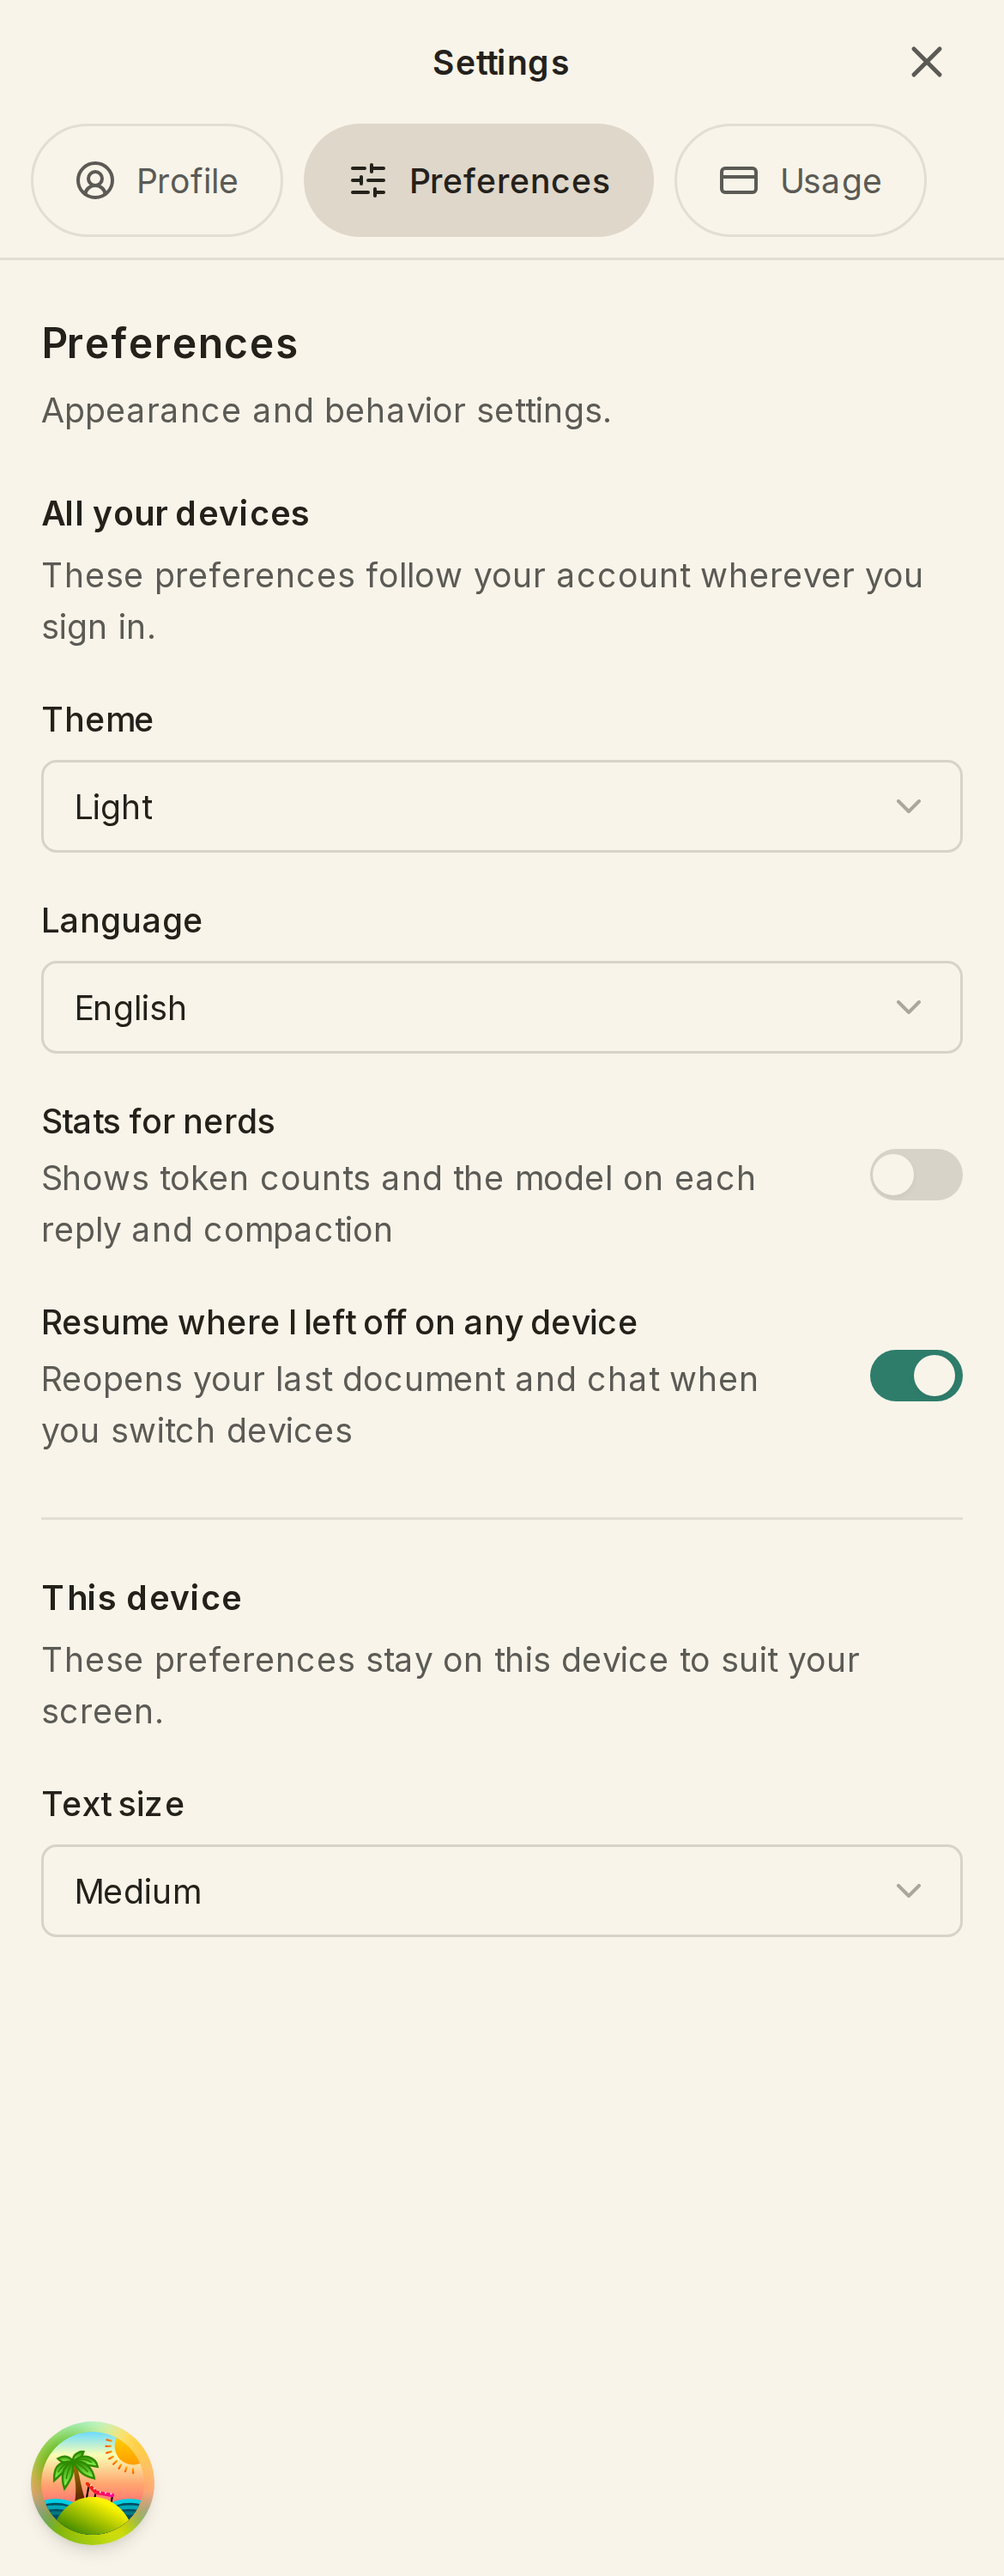
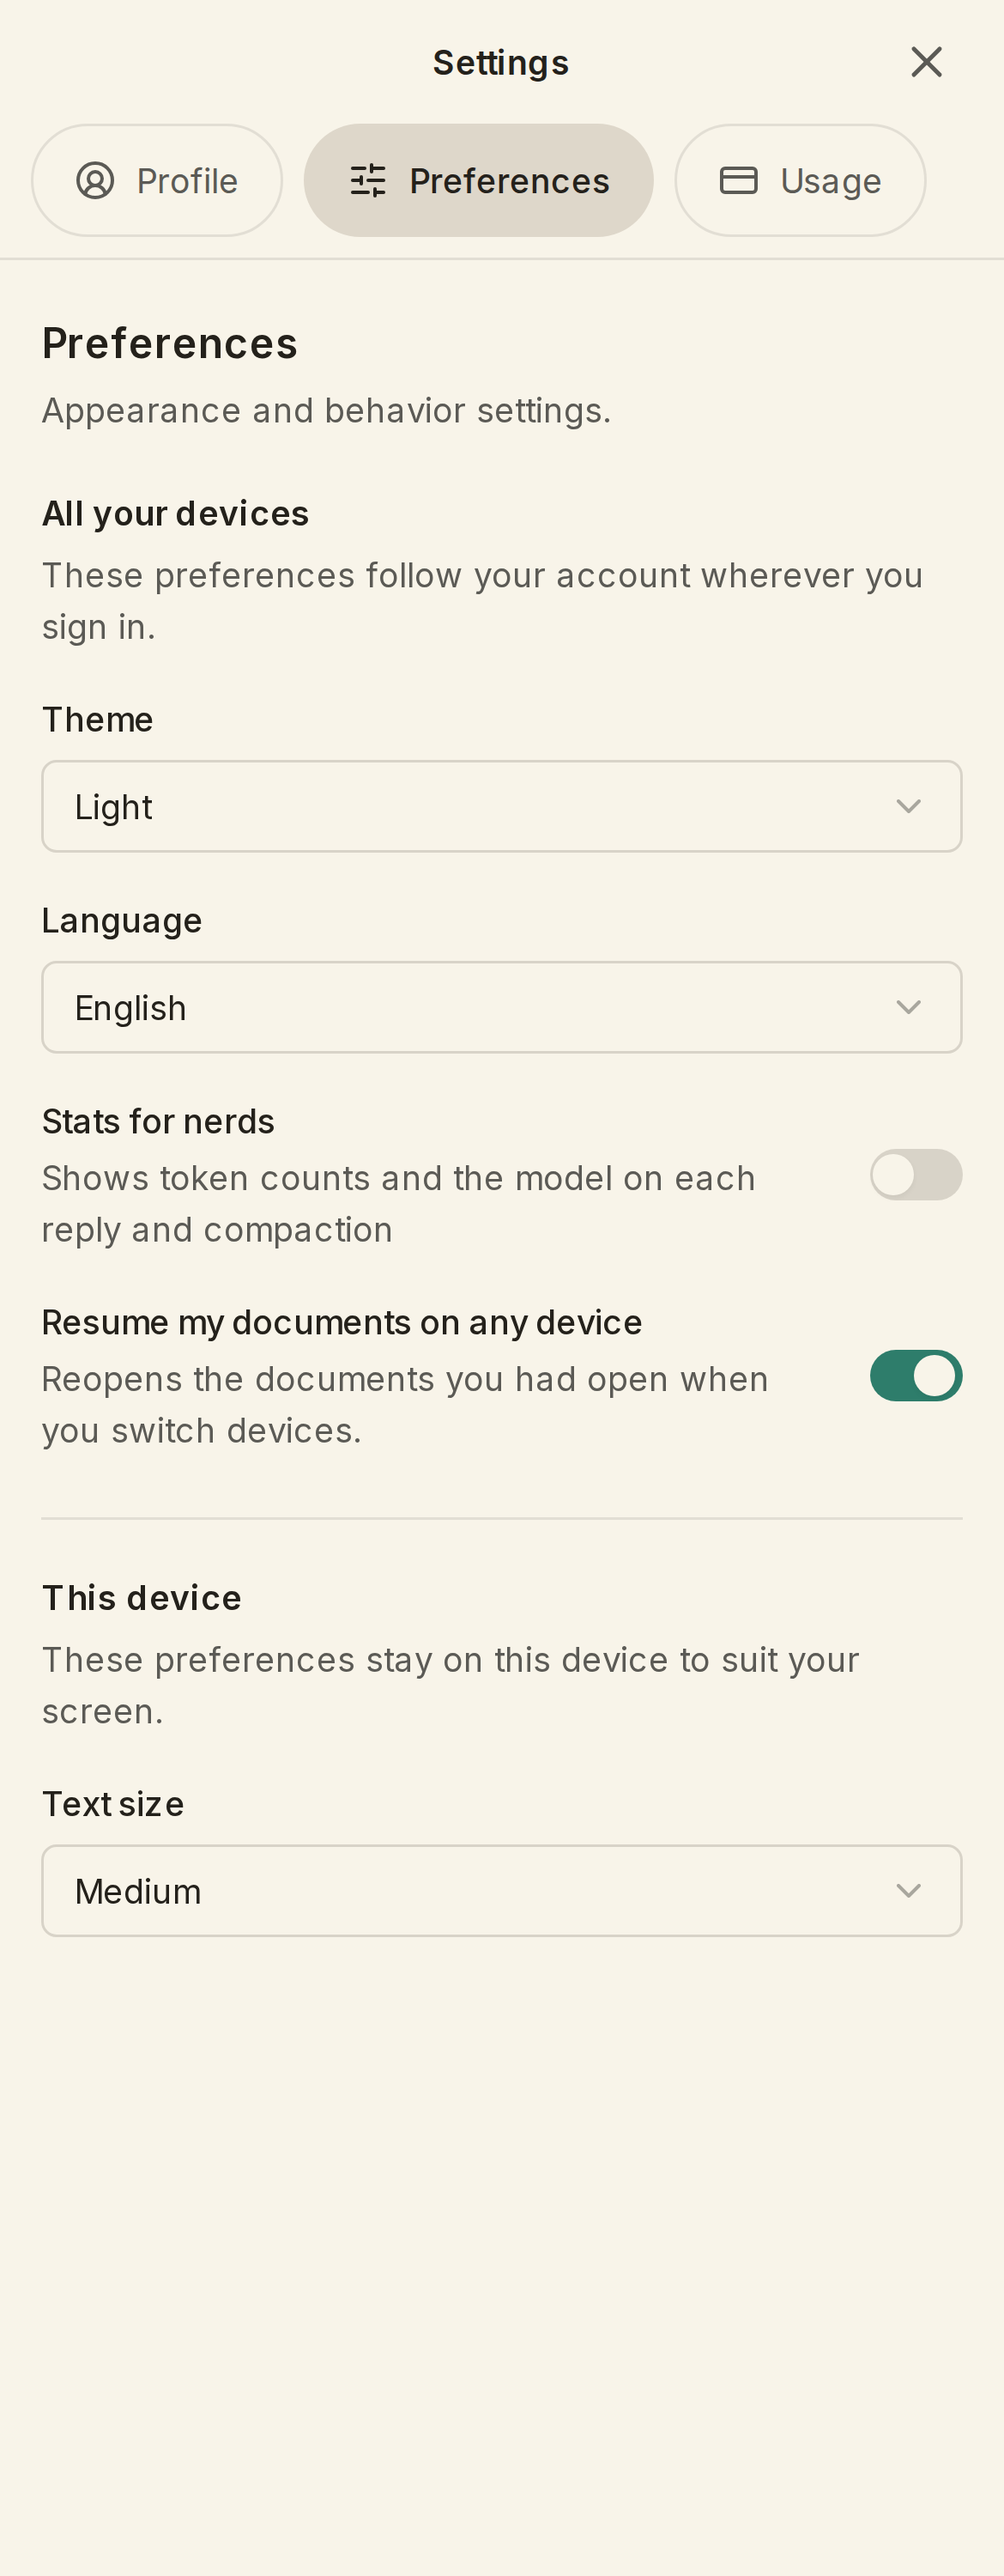
test: record reviewed settings controls and pin retirement guidance

Changed region(s): [[0.1846, 0.496, 0.6462, 0.558], [0.0308, 0.93, 0.1538, 0.992], [0.6769, 0.527, 0.7385, 0.558]]

diff --git a/apps/app/src/lib/account-settings-cache.ts b/apps/app/src/lib/account-settings-cache.ts
@@ -1,4 +1,4 @@
-/** Account-stamped first-paint cache. The server remains the preference authority. */
+/** Account-stamped confirmed-snapshot cache. The server remains the preference authority. */
 import { ACCOUNT_LANGUAGES, ACCOUNT_THEMES } from "@meridian/contracts/preferences";
 import type { AccountSettings } from "@meridian/contracts/protocol";
 export const ACCOUNT_SETTINGS_ACTIVE_KEY = "meridian:account-settings-active:v1";

diff --git a/apps/app/src/features/account/useAccountSettings.test.tsx b/apps/app/src/features/account/useAccountSettings.test.tsx
@@ -471,7 +471,7 @@ it("reconciles all unowned fields from a cross-tab server read", async () => {
     });
     await act(async () =>
       window.dispatchEvent(
-        new StorageEvent("storage", { key: ACCOUNT_SETTINGS_CACHE_PREFIX + "account-a" }),
+        new StorageEvent("storage", { key: `${ACCOUNT_SETTINGS_CACHE_PREFIX}account-a` }),
       ),
     );
     await flush();

diff --git a/apps/server/server/domains/preferences/.context/CONTEXT.md b/apps/server/server/domains/preferences/.context/CONTEXT.md
@@ -12,5 +12,7 @@ Owns account display preferences and the per-project runtime auto-resume policy.
   The runtime orchestrator consumes it. GET/PUT project preference routes have
   no current client reader; they remain available for this runtime policy.
   Thread grouping and pinned thread IDs are retired, not compatibility fields.
+  Migration 0036 transfers visible, project-owned pins to canonical Favorites
+  without clearing existing favorites; invalid/orphaned IDs are discarded.
 - Production uses Drizzle adapters; in-memory adapters implement the same ports.
   Domain copy/merge helpers keep auto-resume defaults independent.
